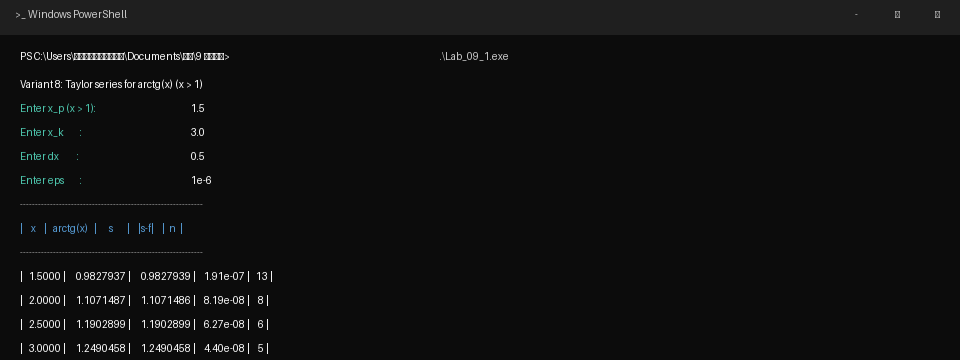
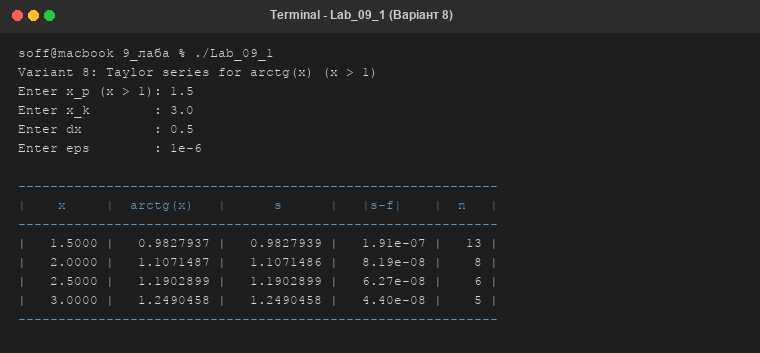
Виправлено вирівнювання таблиці в Lab_09_1.cpp, перегенеровано скріншоти консолі та звіти

diff --git a/PR_9.1/Lab_09_1.cpp b/PR_9.1/Lab_09_1.cpp
@@ -26,26 +26,26 @@ int main()
     cout << "Enter eps        : "; cin >> e;
     cout << endl;
 
-    cout << "-------------------------------------------------------------" << endl;
-    cout << "|    x    |   arctg(x)   |      s       |    |s-f|    |  n  |" << endl;
-    cout << "-------------------------------------------------------------" << endl;
+    cout << "------------------------------------------------------------" << endl;
+    cout << "|    x     |  arctg(x)   |      s      |   |s-f|    |  n   |" << endl;
+    cout << "------------------------------------------------------------" << endl;
 
     x = x_p;
-    while (x <= x_k) {
+    while (x <= x_k + dx / 2.0) {
         sum();
         double exact = atan(x);
         double diff = fabs(s - exact);
 
-        cout << "|" << setw(9) << fixed << setprecision(4) << x << " "
-             << "|" << setw(14) << fixed << setprecision(7) << exact << " "
-             << "|" << setw(14) << fixed << setprecision(7) << s << " "
-             << "|" << setw(12) << scientific << setprecision(2) << diff << " "
-             << "|" << setw(5) << n << " |" << endl;
+        cout << "|" << setw(9)  << fixed      << setprecision(4) << x     << " "
+             << "|" << setw(12) << fixed      << setprecision(7) << exact << " "
+             << "|" << setw(12) << fixed      << setprecision(7) << s     << " "
+             << "|" << setw(11) << scientific << setprecision(2) << diff  << " "
+             << "|" << setw(5)  << n << " |" << endl;
 
         x += dx;
     }
 
-    cout << "-------------------------------------------------------------" << endl;
+    cout << "------------------------------------------------------------" << endl;
 
     return 0;
 }
